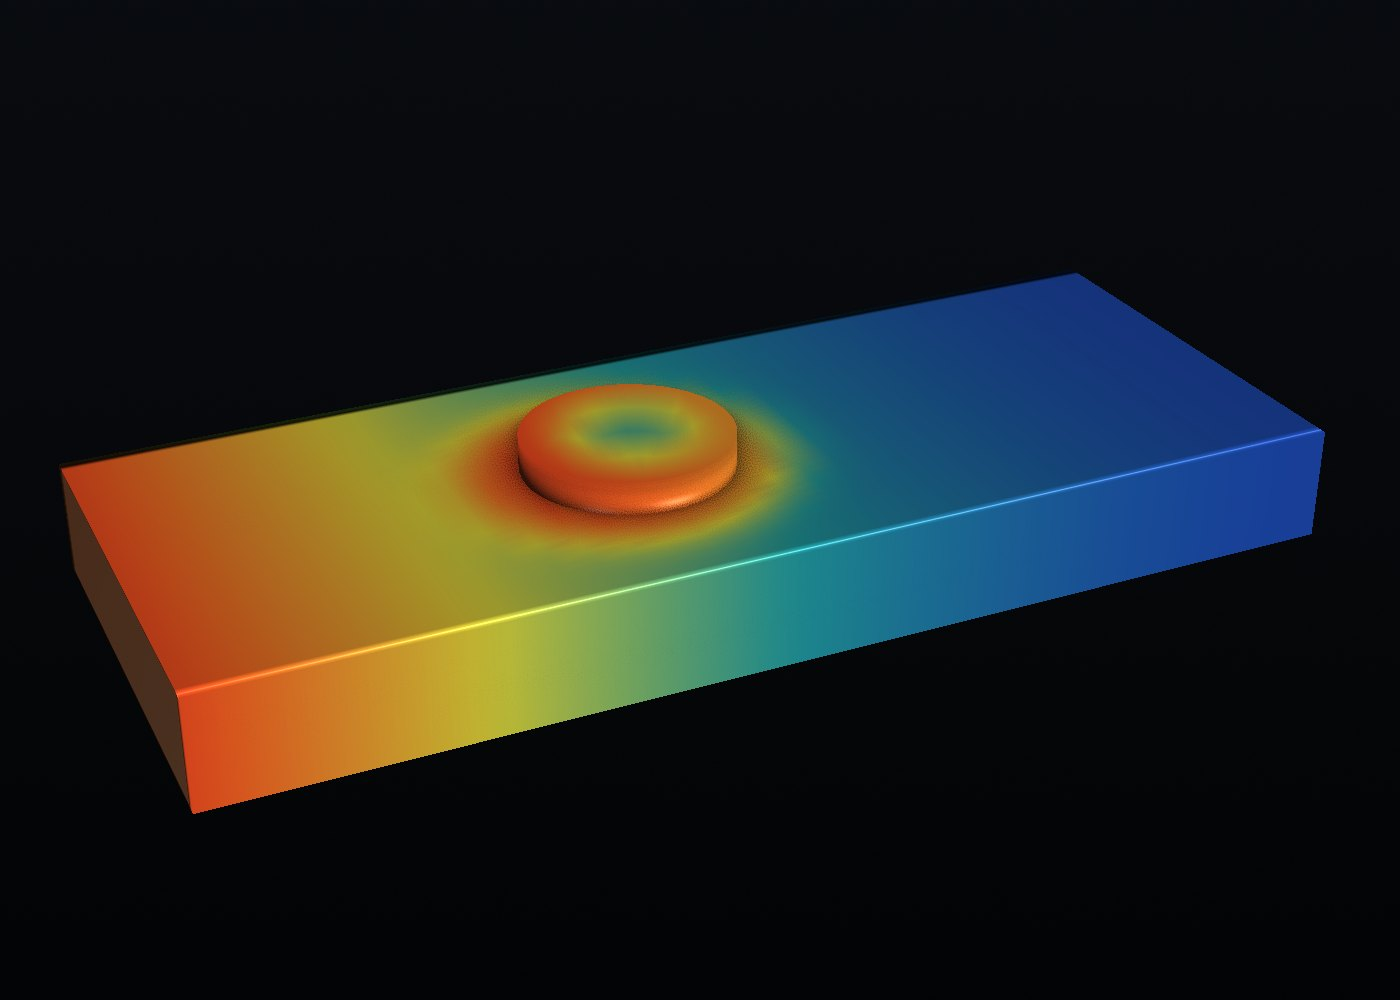
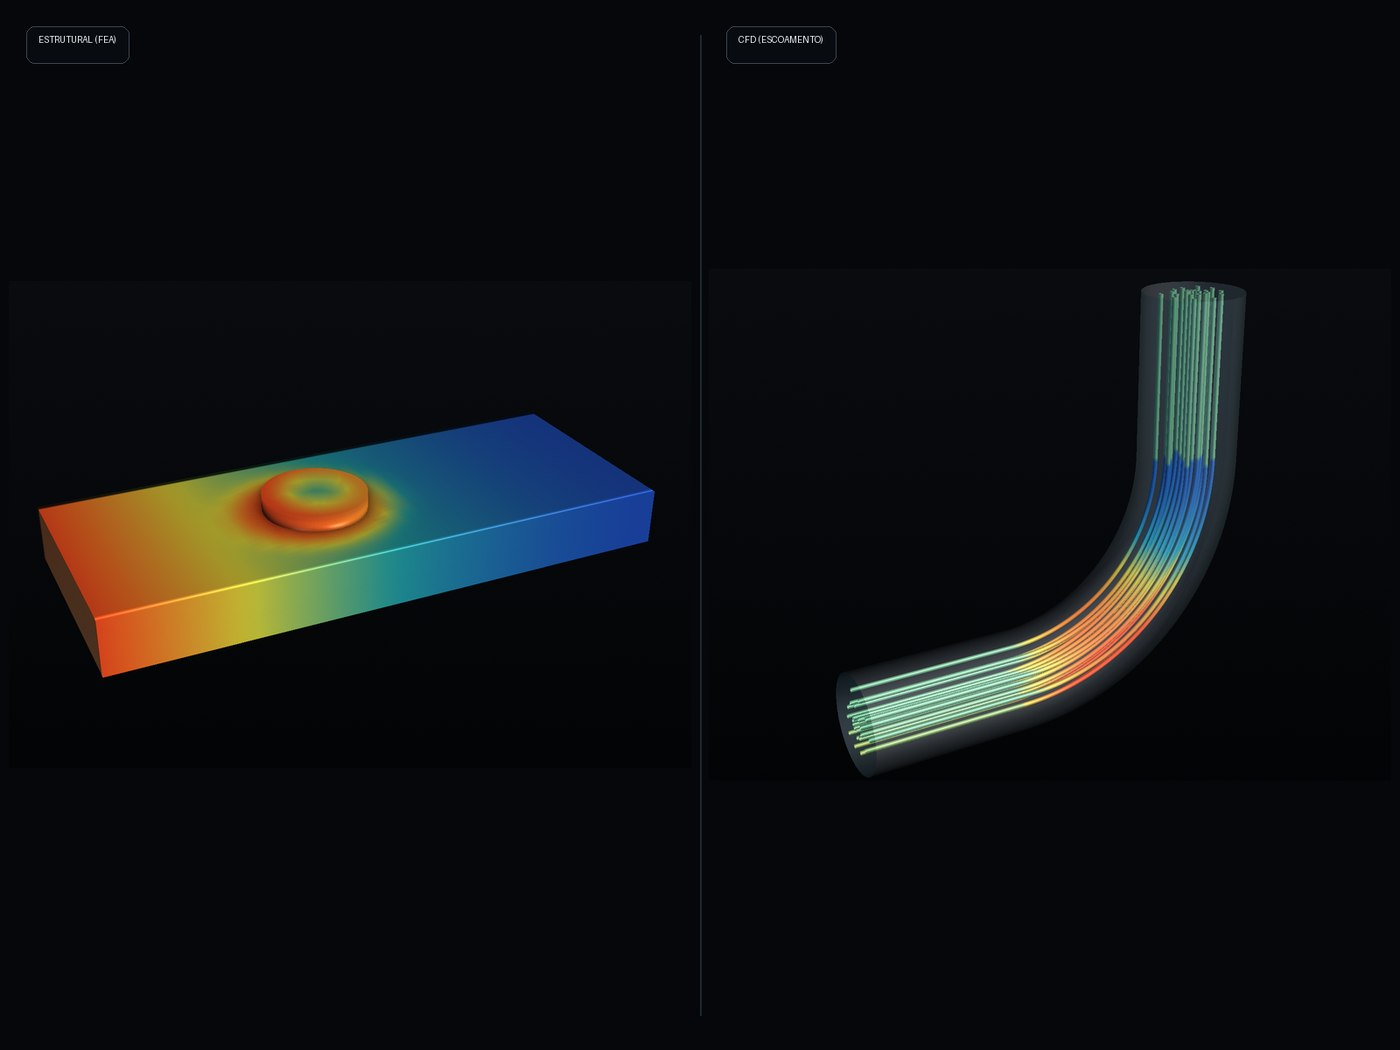
Add a dedicated 3D CFD flow visualization alongside the structural one
The "Simulação Estrutural e CFD" capability card only showed a structural
stress render (a bracket colored by von Mises-like stress) -- CFD itself
wasn't actually illustrated. Added a new VTK render: a 90-degree pipe bend
with a translucent shell and ~20 colored streamlines (blue->amber->red by
synthetic velocity, faster on the inner bend radius), composited side by
side with the structural render into one labeled image. Copy updated to
describe both halves explicitly.

Changed region(s): [[0.0307, 0.248, 0.9521, 0.837], [0.5221, 0.031, 0.5836, 0.062], [0.0307, 0.031, 0.0921, 0.062]]

diff --git a/index.html b/index.html
@@ -340,14 +340,15 @@
     <div class="cap-grid">
       <article class="cap">
         <div class="shot3">
-          <img loading="lazy" decoding="async" src="img/cap_estrutural.jpg" alt="Render de uma peça mecânica colorida por campo de tensão estrutural">
+          <img loading="lazy" decoding="async" src="img/cap_estrutural.jpg" alt="À esquerda, peça mecânica colorida por tensão estrutural; à direita, linhas de corrente coloridas por velocidade num cotovelo de tubulação">
           <span class="pill-cap">Capacidade</span>
         </div>
         <div class="body3">
           <span class="card-k">Simulação estrutural e CFD</span>
-          <h3>Tensão, escoamento e temperatura, com número por trás da cor</h3>
-          <p>Elementos finitos e volumes finitos para estrutura, fluido e troca de calor —
-            cada cor do mapa corresponde a um valor conferível, nunca só uma ilustração.</p>
+          <h3>Tensão (esquerda) e escoamento (direita), com número por trás da cor</h3>
+          <p>Elementos finitos para estrutura e volumes finitos para fluido e troca de calor —
+            no trabalho real, cada cor do mapa corresponde a um valor conferível contra a
+            física, não só uma ilustração bonita.</p>
         </div>
       </article>
       <article class="cap">
